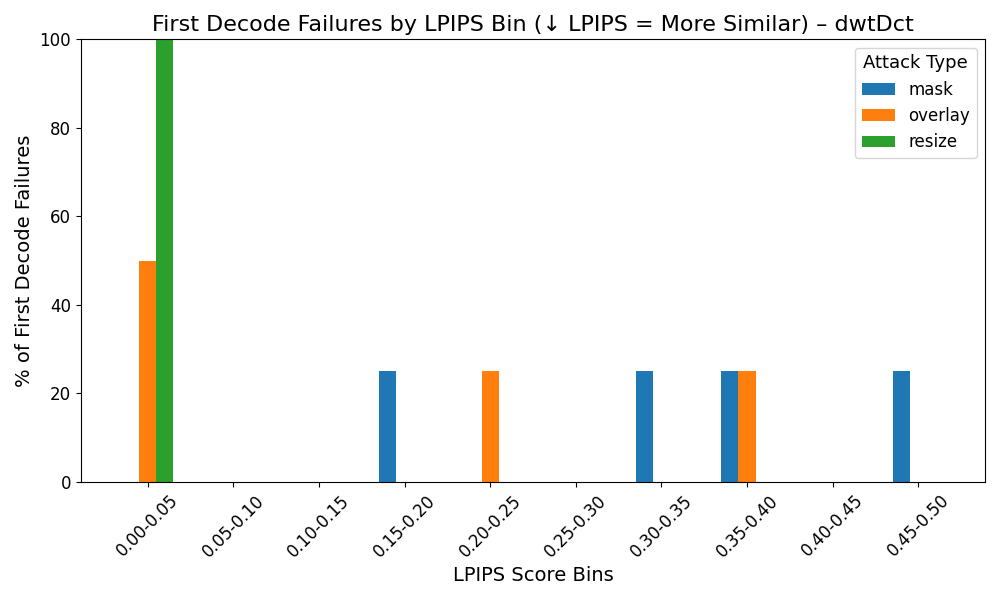
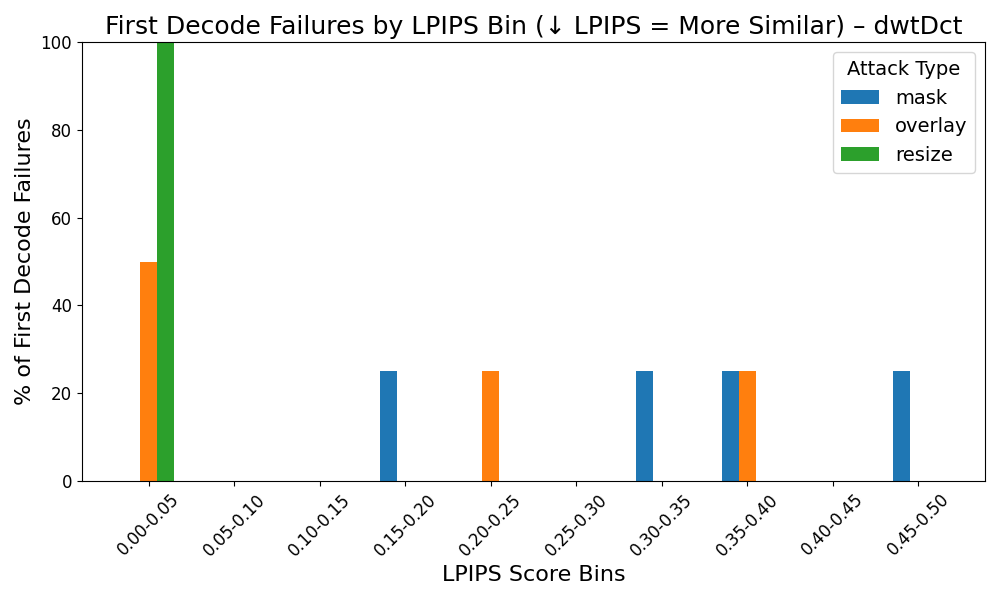
Font size and attack changes

diff --git a/create_lpips_failure_distribution_plots.py b/create_lpips_failure_distribution_plots.py
@@ -5,18 +5,18 @@ import numpy as np
 from collections import defaultdict
 
 plt.rcParams.update({
-    'axes.titlesize': 16,
-    'axes.labelsize': 14,
+    'axes.titlesize': 18,
+    'axes.labelsize': 16,
     'xtick.labelsize': 12,
     'ytick.labelsize': 12,
-    'legend.fontsize': 12,
-    'legend.title_fontsize': 13,
-    'figure.titlesize': 18
+    'legend.fontsize': 14,
+    'legend.title_fontsize': 14,
+    'figure.titlesize': 20
 })
 
 # Configurable constants
 methods = ['dwtDct', 'dwtDctSvd', 'rivaGan']
-attacks = [ 'mask', 'overlay', 'resize']
+attacks = [ 'denoising', 'jpeg', 'upscale']
 image_names = [
     "cat", "city_day", "city_night", "desert", "dog", "fish", "food",
     "forest", "man1", "man2", "man3", "mountain", "pages", "woman1", "woman2"
@@ -127,5 +127,5 @@ for method in methods:
     plt.xticks(group_center, bin_labels, rotation=45)
     plt.legend(title="Attack Type", loc='upper right', frameon=True)
     plt.tight_layout()
-    plt.savefig(f"lpips_failure_distribution_plots/high_lpips/{method}_lpips_failure_distribution.png")
+    plt.savefig(f"lpips_failure_distribution_plots/low_lpips/{method}_lpips_failure_distribution.png")
     plt.close()
